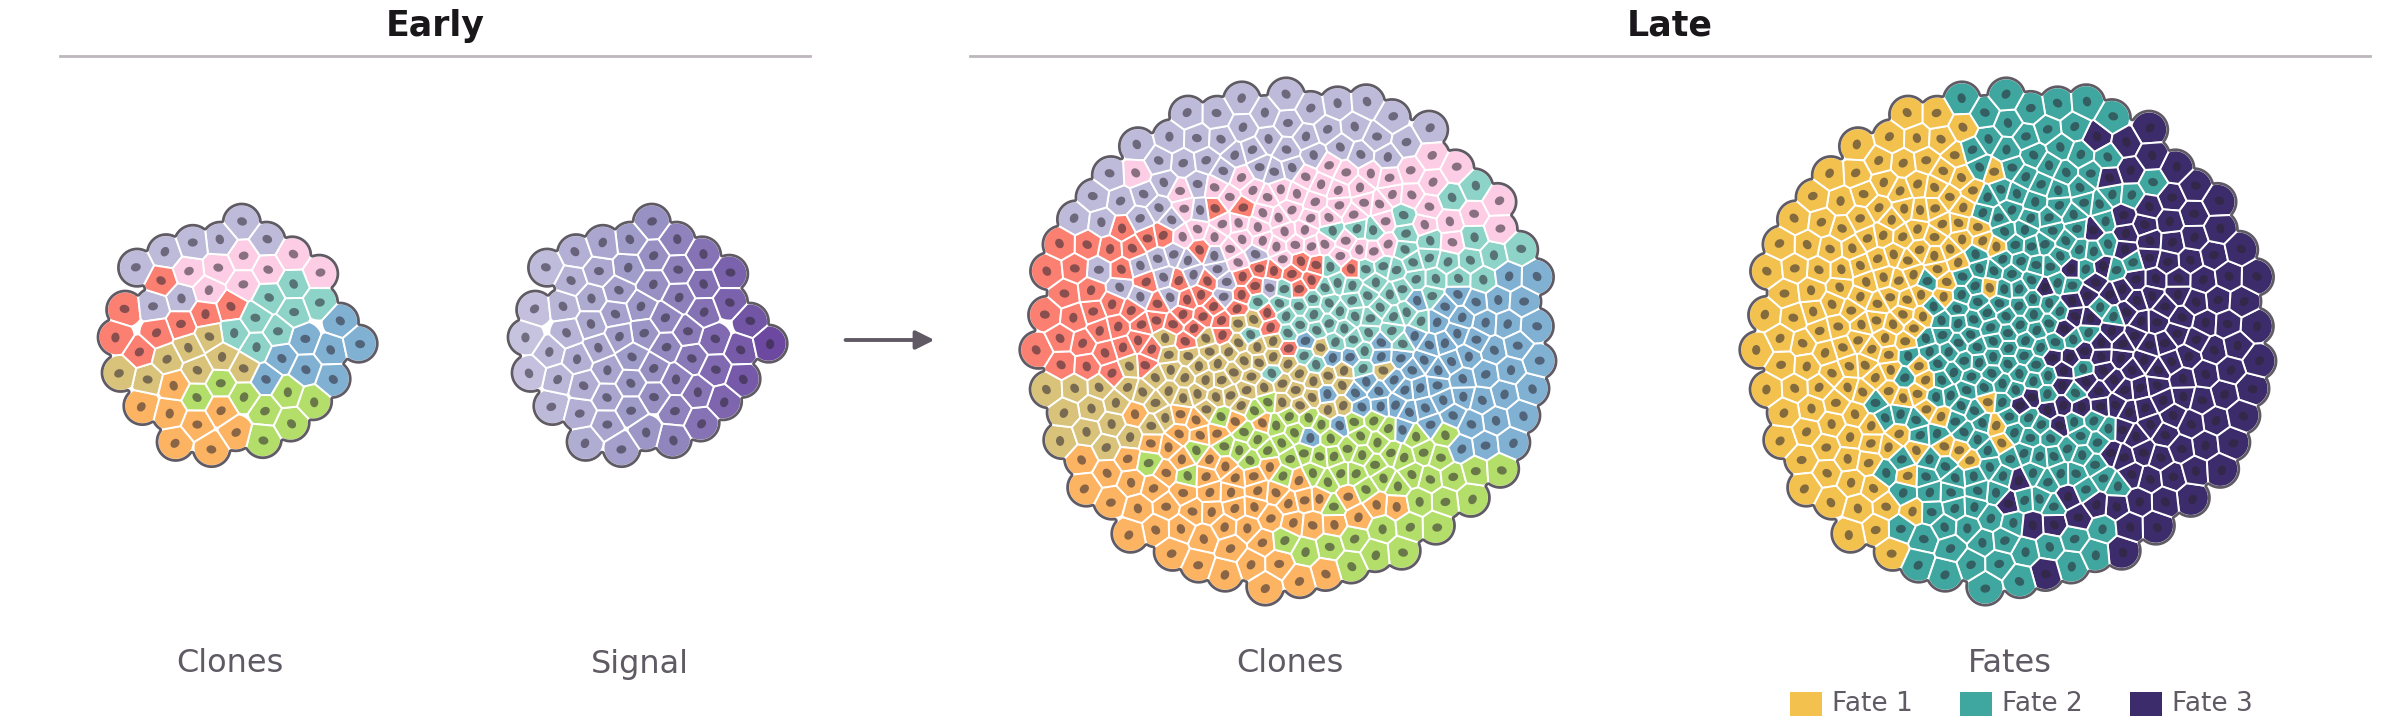
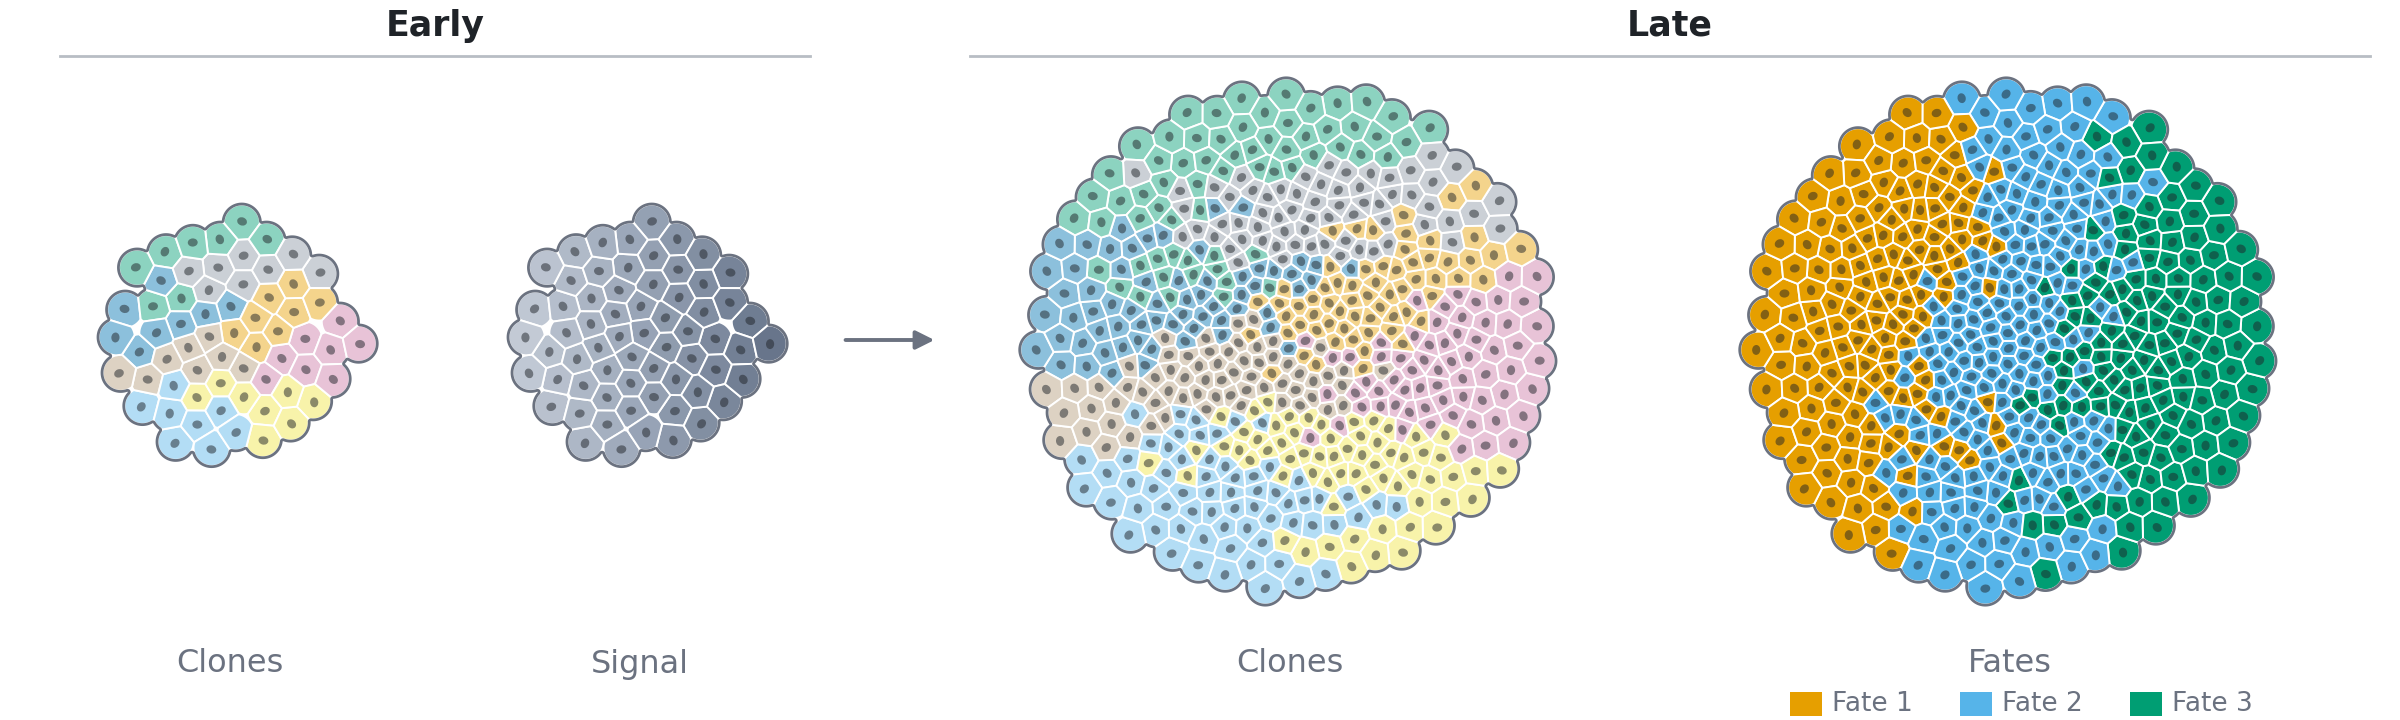
One colorblind-safe palette across the three figures; regulatory tracks on perspective planes

diff --git a/bin/make_research_art.py b/bin/make_research_art.py
@@ -24,11 +24,27 @@ from matplotlib.patches import FancyArrowPatch, Polygon, Rectangle
 OUT = os.path.join(os.path.dirname(os.path.abspath(__file__)), "..", "assets", "img", "research")
 os.makedirs(OUT, exist_ok=True)
 
-# the research statement's palette
-INK, MUTED, GREY, HAIR = "#1A171B", "#5F5A63", "#BDB7BD", "#E2DDE2"
-TEAL, ORANGE, PURPLE, BROWN, MAGENTA, BLUE = "#1B9E77", "#D95F02", "#7570B3", "#A6761D", "#E7298A", "#1F9BD6"
-ALLELES = [TEAL, ORANGE, PURPLE, BROWN, MAGENTA, BLUE]
-DROPOUT = "#C9C5CA"
+# ---- one palette for all three figures ----
+# Categorical colors are the Okabe-Ito set, which stays distinguishable under common color vision
+# deficiencies. The same meaning keeps the same color across figures: cell identities (fates in the
+# fate figure, states in the transfer figure) share IDENT, and recorder edits reuse its hues. Lightness
+# separates layers of meaning: clones are pale tints, identities are saturated. Magnitude (the signal)
+# is a single-hue slate ramp, never a category color. One accent, vermillion, marks what matters:
+# the newest edit, and human. Everything else is neutral.
+INK, MUTED, GREY, HAIR = "#1F2328", "#6B7280", "#B8BDC4", "#E5E7EB"
+OI_ORANGE, OI_SKY, OI_GREEN, OI_BLUE, OI_PURPLE = "#E69F00", "#56B4E9", "#009E73", "#0072B2", "#CC79A7"
+OI_YELLOW, OI_VERMILLION = "#F0E442", "#D55E00"
+IDENT = [OI_ORANGE, OI_SKY, OI_GREEN, OI_BLUE, OI_PURPLE]
+ACCENT = OI_VERMILLION
+SLATE = "#3B4A63"
+ALLELES = IDENT
+DROPOUT = "#CDD1D6"
+
+
+def tint(c, f=0.55):
+    """c mixed toward white by f, for a lighter layer of the same hue."""
+    a = np.array(matplotlib.colors.to_rgb(c))
+    return tuple(a + (1 - a) * f)
 plt.rcParams["font.family"] = "DejaVu Sans"
 W, H = 12.0, 3.6
 DPI = 200
@@ -66,8 +82,8 @@ def text(ax, x, y, s, **kw):
 fig, ax = canvas()
 rng = np.random.default_rng(9)
 NSITE = 5
-UNEDITED = "#2B2530"
-NEW = "#FFB000"
+UNEDITED = "#2B2F36"
+NEW = ACCENT
 TIPY = 0.6
 # the tree: name -> (x, y of the cell, children); y is the time of division, tips sit at sampling time
 TREE = {
@@ -163,7 +179,7 @@ for k, (lab, draw) in enumerate((("Unedited", "u"), ("Edited", "e"), ("Newest\ne
         for j, c in enumerate(ALLELES[:3]):
             ax.add_patch(Rectangle((KX + j * 0.085 - 0.07, y - 0.1), 0.065, 0.2, fc=c, ec="none"))
     elif draw == "n":
-        ax.add_patch(Rectangle((KX, y - 0.1), 0.07, 0.2, fc=ORANGE, ec="none"))
+        ax.add_patch(Rectangle((KX, y - 0.1), 0.07, 0.2, fc=IDENT[0], ec="none"))
         ax.add_patch(Rectangle((KX - 0.03, y - 0.13), 0.13, 0.26, fc="none", ec=NEW, lw=1.8))
     else:
         ax.add_patch(Rectangle((KX, y - 0.1), 0.07, 0.2, fc=DROPOUT, ec="none"))
@@ -222,9 +238,9 @@ def signal_of(p):
 
 fate = np.digitize(signal_of(pos) + bias + rs.normal(0, 0.05, len(pos)), [0.38, 0.64])
 
-CLONE_COLS = ["#8DD3C7", "#FDB462", "#BEBADA", "#FB8072", "#80B1D3", "#B3DE69", "#FCCDE5", "#D9C27A"]
-FATE_COLS = ["#F2C14E", "#3FA7A0", "#3D2C6B"]
-SIG_CMAP = matplotlib.colors.LinearSegmentedColormap.from_list("sig", ["#F7F4FB", "#9E9AC8", "#3F007D"])
+CLONE_COLS = [tint(c) for c in (OI_ORANGE, OI_SKY, OI_GREEN, OI_BLUE, OI_PURPLE, OI_YELLOW, "#8C96A3", "#B49A7A")]
+FATE_COLS = IDENT[:3]                              # the same colors as States 1 to 3 in the transfer figure
+SIG_CMAP = matplotlib.colors.LinearSegmentedColormap.from_list("sig", ["#F4F6F9", "#9AA6B8", SLATE])
 
 
 def tissue(ax, cx, cy, scale, p, colors):
@@ -245,7 +261,7 @@ def tissue(ax, cx, cy, scale, p, colors):
         ax.add_patch(Poly(np.array(cell.exterior.coords), closed=True, fc=colors[i], ec="white", lw=0.7, zorder=3))
         c = cell.centroid
         ax.add_patch(Ellipse((c.x, c.y), 0.34 * scale, 0.28 * scale, angle=rs.uniform(0, 180),
-                             fc="#2B2530", ec="none", alpha=0.55, zorder=4))
+                             fc=INK, ec="none", alpha=0.5, zorder=4))
     body = unary_union([c.buffer(0.08 * scale) for c in shapes]).buffer(-0.06 * scale)   # close the gaps between cells
     for g in getattr(body, "geoms", [body]):
         ax.add_patch(Poly(np.array(g.exterior.coords), closed=True, fc="none", ec=MUTED, lw=1.0, zorder=5))
@@ -278,12 +294,11 @@ save(fig, "fate.png")
 
 # =============================== 3. transfer ===============================
 # Left: a phylogeny with a silhouette per species; for each, a functional genomics signal track over
-# the same region, orthologous genes marked, and the region's synteny drawn as conserved blocks along
-# the genome (their order and orientation differ between species); each model organism's proposal
-# points onto the human track.
-# Right: the cell states of the same species as a stack of embedding planes, as in the research
-# statement: a branching trajectory in each, corresponding states linked, and human sampled only to
-# an earlier stage, so its later states are outlines.
+# the same region on its own plane, stacked in perspective, with the orthologous genes marked; each
+# model organism proposes a different human element.
+# Right: the cell states of the same species as a stack of embedding planes, one cluster per state.
+# Human is the reference and has every state; each model organism lacks some of them (outlined).
+# Model organisms are drawn in neutrals and human in the accent, so the figure reads human-centered.
 SIL = os.path.join(os.path.dirname(os.path.abspath(__file__)), "silhouettes")
 W3, H3 = 12.0, 4.6
 fig = plt.figure(figsize=(W3, H3), dpi=DPI)
@@ -293,8 +308,12 @@ ax.set_ylim(0, H3)
 ax.set_aspect("equal")
 ax.axis("off")
 rs = np.random.default_rng(12)
-SPECIES = [("Zebrafish", "zebrafish", BLUE), ("Mouse", "mouse", ORANGE), ("Macaque", "macaque", PURPLE), ("Human", "human", TEAL)]
-ROW = [3.45, 2.52, 1.59, 0.66]                   # track baselines, human at the bottom
+SPECIES = [("Zebrafish", "zebrafish"), ("Mouse", "mouse"), ("Macaque", "macaque"), ("Human", "human")]
+ROW = [3.45, 2.52, 1.59, 0.66]                   # plane bottoms, human at the bottom
+
+
+def scol(key):
+    return ACCENT if key == "human" else SLATE
 
 
 def hline(x0, x1, y):
@@ -331,87 +350,97 @@ def silhouette(name, x, y, hmax, wmax, color):
     ax.imshow(rgba, extent=(x - w * sc / 2, x + w * sc / 2, y - h * sc / 2, y + h * sc / 2), zorder=4)
 
 
-for (lab, key, col), y in zip(SPECIES, ROW):
-    silhouette(key, 1.35, y + 0.4, 0.55, 0.7, col)
-    text(ax, 1.35, y + 0.02, lab, fontsize=10.5, color=col, fontweight="bold")
-
-TX0, TX1 = 1.95, 6.05
-xs = np.linspace(TX0, TX1, 700)
-# element positions per species; the region is longer in mouse and shorter in zebrafish, and the
-# middle block is inverted in zebrafish, so the elements do not line up column by column
-ELEM = {"zebrafish": [2.95, 4.45, 5.0], "mouse": [2.85, 3.95, 5.1], "macaque": [3.0, 4.05, 5.05], "human": [3.02, 4.08, 5.07]}
-GA = {"zebrafish": 2.05, "mouse": 2.02, "macaque": 2.08, "human": 2.08}
-GB = {"zebrafish": 5.45, "mouse": 5.6, "macaque": 5.55, "human": 5.57}
-def gene(x, y, color, label=None, strand=1):
-    """A gene arrow; strand -1 points left, as a gene on the reverse strand."""
-    pts = [(0, -0.07), (0.26, -0.07), (0.34, 0), (0.26, 0.07), (0, 0.07)]
-    if strand < 0:
-        pts = [(0.34 - px, py) for px, py in pts]
-    ax.add_patch(Polygon([(x + px, y + py) for px, py in pts], closed=True, fc=color, ec="none", zorder=5))
-    if label:
-        text(ax, x + 0.17, y + 0.2, label, fontsize=9.5, color=INK, style="italic")
+for (lab, key), y in zip(SPECIES, ROW):
+    silhouette(key, 1.35, y + 0.4, 0.55, 0.7, scol(key))
+    text(ax, 1.35, y + 0.02, lab, fontsize=10.5, color=scol(key), fontweight="bold")
 
 
-for (lab, key, col), y in zip(SPECIES, ROW):
-    sig = 0.03 * rs.random(xs.size)
-    for k, e in enumerate(ELEM[key]):
-        h = 0.5
-        sig += h * np.exp(-((xs - e) ** 2) / (2 * 0.045 ** 2))
-    for e in rs.uniform(TX0 + 0.5, TX1 - 0.8, 3):                       # species-specific peaks
-        sig += 0.15 * np.exp(-((xs - e) ** 2) / (2 * 0.03 ** 2))
-    ax.fill_between(xs, y, y + sig, color=col, alpha=0.9, lw=0, zorder=3)
-    ax.plot([TX0, TX1], [y, y], color=GREY, lw=1, zorder=2)
-    top = key == "zebrafish"
-    gene(GA[key], y, INK, "Gene A" if top else None)
-    gene(GB[key], y, INK, "Gene B" if top else None, strand=-1)
-# orthologous genes joined across species
-for (_, a, _), (_, b, _), ya, yb in zip(SPECIES, SPECIES[1:], ROW, ROW[1:]):
+def plane(k, a, b, x0, wa, wb, hb):
+    """A point on plane k: a runs along the plane, b runs into it (drawn up and to the right)."""
+    return x0 + 0.3 * k + wa * a + wb * b, ROW[k] - 0.1 + hb * b
+
+
+def Lk(k, a, b):
+    return plane(k, a, b, 1.8, 3.75, 0.55, 0.42)
+
+
+def Rk(k, a, b):
+    return plane(k, a, b, 6.6, 3.45, 0.7, 0.62)
+
+
+def draw_plane(P, k, key, z):
+    ax.add_patch(Polygon([P(k, 0, 0), P(k, 1, 0), P(k, 1, 1), P(k, 0, 1)], closed=True, fc="#F7F7F8",
+                         ec=scol(key), lw=1.3 if key == "human" else 0.9, alpha=0.96, zorder=z))
+
+
+# ---------------- left: a signal track on each plane ----------------
+ELEM = {"zebrafish": [0.24, 0.6, 0.73], "mouse": [0.22, 0.48, 0.76], "macaque": [0.26, 0.5, 0.75], "human": [0.26, 0.51, 0.755]}
+GA = {"zebrafish": 0.03, "mouse": 0.02, "macaque": 0.04, "human": 0.04}      # gene A, left flank
+GB = {"zebrafish": 0.86, "mouse": 0.89, "macaque": 0.88, "human": 0.885}     # gene B, reverse strand
+TRACK_B = 0.3                                    # the track runs along the plane at this depth
+aa = np.linspace(0.0, 1.0, 600)
+for k, (lab, key) in enumerate(SPECIES):
+    draw_plane(Lk, k, key, 2 + k * 0.01)
+    sig = 0.03 * rs.random(aa.size)
+    for e in ELEM[key]:
+        sig += 0.5 * np.exp(-((aa - e) ** 2) / (2 * 0.011 ** 2))
+    for e in rs.uniform(0.12, 0.8, 3):                                   # species-specific peaks
+        sig += 0.15 * np.exp(-((aa - e) ** 2) / (2 * 0.008 ** 2))
+    base = np.array([Lk(k, a, TRACK_B) for a in aa])
+    ax.fill_between(base[:, 0], base[:, 1], base[:, 1] + 0.95 * sig, color=scol(key), alpha=0.85, lw=0, zorder=5)
+    ax.plot(base[:, 0], base[:, 1], color=GREY, lw=0.9, zorder=4)
+    for g, strand, name in ((GA, 1, "Gene A"), (GB, -1, "Gene B")):
+        gx, gy = Lk(k, g[key], TRACK_B)
+        pts = [(0, -0.065), (0.24, -0.065), (0.32, 0), (0.24, 0.065), (0, 0.065)]
+        if strand < 0:
+            pts = [(0.32 - px, py) for px, py in pts]
+        ax.add_patch(Polygon([(gx + px, gy + py) for px, py in pts], closed=True, fc=INK, ec="none", zorder=6))
+        if k == 0:
+            text(ax, gx + 0.16, gy + 0.2, name, fontsize=9.5, color=INK, style="italic")
+# orthologous genes joined plane to plane
+for k in range(3):
     for g in (GA, GB):
-        ax.plot([g[a] + 0.17, g[b] + 0.17], [ya - 0.1, yb + 0.1], color=MUTED, lw=0.9, ls=(0, (2, 2)), zorder=1)
+        p, q = Lk(k, g[SPECIES[k][1]], TRACK_B), Lk(k + 1, g[SPECIES[k + 1][1]], TRACK_B)
+        ax.plot([p[0] + 0.16, q[0] + 0.16], [p[1] - 0.07, q[1] + 0.07], color=MUTED, lw=0.9, ls=(0, (2, 2)), zorder=1)
 # each model organism proposes a different human element, from the element it has evidence for
-for (lab, key, col), y, k in zip(SPECIES[:3], ROW[:3], (2, 1, 0)):
-    ax.add_patch(FancyArrowPatch((ELEM[key][k] + 0.1, y + 0.3), (ELEM["human"][k] + 0.08, ROW[3] + 0.5),
+for k, j in zip(range(3), (2, 1, 0)):
+    key = SPECIES[k][1]
+    p = Lk(k, ELEM[key][j], TRACK_B)
+    q = Lk(3, ELEM["human"][j], TRACK_B)
+    ax.add_patch(FancyArrowPatch((p[0] + 0.05, p[1] + 0.3), (q[0] + 0.03, q[1] + 0.5),
                                  connectionstyle="arc3,rad=-0.3", arrowstyle="-|>", mutation_scale=11,
-                                 color=col, lw=1.4, zorder=6))
-text(ax, (TX0 + TX1) / 2, 4.38, "Regulatory elements", fontsize=12, color=INK)
+                                 color=INK, lw=1.3, zorder=7))
+    hx, hy = q
+    ax.add_patch(matplotlib.patches.Ellipse((hx, hy + 0.22), 0.2, 0.56, fc="none", ec=ACCENT, lw=1.4, zorder=7))
+text(ax, 3.9, 4.42, "Regulatory elements", fontsize=12, color=INK)
 
-# ---------------- right: a stack of embedding planes, one per species ----------------
-# each cell state is a cluster, placed alike in every species with a small species-specific shift.
-# Human is the reference and has every state; each model organism lacks some of them (outlined)
-STATES = [("State 1", "#F28E2B", 0.13, 0.5), ("State 2", "#E15759", 0.38, 0.28), ("State 3", "#76B7B2", 0.38, 0.72),
-          ("State 4", "#59A14F", 0.72, 0.25), ("State 5", "#B07AA1", 0.78, 0.72)]
-
-
-def Pk(k, a, b):
-    ox, oy = 6.55 + 0.34 * k, ROW[k] - 0.08
-    return ox + 3.5 * a + 0.7 * b, oy + 0.62 * b
-
-
+# ---------------- right: a stack of embedding planes, one cluster per cell state ----------------
+STATES = [("State %d" % (j + 1), IDENT[j], ca, cb) for j, (ca, cb) in
+          enumerate(((0.13, 0.5), (0.38, 0.28), (0.38, 0.72), (0.72, 0.25), (0.78, 0.72)))]
 MISSING = {"zebrafish": {2, 4}, "mouse": {4}, "macaque": {3}, "human": set()}
 CENT = []
-for k, (lab, key, col) in enumerate(SPECIES):
-    ax.add_patch(Polygon([Pk(k, 0, 0), Pk(k, 1, 0), Pk(k, 1, 1), Pk(k, 0, 1)], closed=True,
-                         fc="#FAFAFB", ec=col, lw=1.1, alpha=0.95, zorder=9 - k))
+for k, (lab, key) in enumerate(SPECIES):
+    draw_plane(Rk, k, key, 9 - k)
     cents = {}
     for j, (sname, sc, ca, cb) in enumerate(STATES):
         ca2, cb2 = ca + rs.normal(0, 0.025), cb + rs.normal(0, 0.04)
-        cents[j] = Pk(k, ca2, cb2)
+        cents[j] = Rk(k, ca2, cb2)
         if j in MISSING[key]:                                           # this species has no such state
             ax.add_patch(Ellipse(cents[j], 0.5, 0.2, fc="none", ec=sc, lw=1.2, ls=(0, (1.5, 1.5)), zorder=11))
             continue
         n = 28
-        aa = np.clip(ca2 + rs.normal(0, 0.035, n), 0.03, 0.97)
-        bb = np.clip(cb2 + rs.normal(0, 0.09, n), 0.06, 0.94)
-        pts = np.array([Pk(k, u, v) for u, v in zip(aa, bb)])
+        ua = np.clip(ca2 + rs.normal(0, 0.035, n), 0.03, 0.97)
+        ub = np.clip(cb2 + rs.normal(0, 0.09, n), 0.06, 0.94)
+        pts = np.array([Rk(k, u, v) for u, v in zip(ua, ub)])
         ax.scatter(pts[:, 0], pts[:, 1], s=8, color=sc, edgecolors="none", zorder=10 - k)
     CENT.append(cents)
 for ca, cb in zip(CENT, CENT[1:]):
     for j in range(len(STATES)):
-        ax.plot([ca[j][0], cb[j][0]], [ca[j][1], cb[j][1]], color="#9FB6D6", lw=0.9, ls=(0, (3, 2)), zorder=1)
-text(ax, 8.9, 4.38, "Cell states, aligned to human", fontsize=12, color=INK)
+        ax.plot([ca[j][0], cb[j][0]], [ca[j][1], cb[j][1]], color=GREY, lw=0.9, ls=(0, (3, 2)), zorder=1)
+text(ax, 8.95, 4.42, "Cell states, aligned to human", fontsize=12, color=INK)
 for j, (sname, sc, _, _) in enumerate(STATES):
-    ax.scatter([6.75 + j * 1.0], [0.2], s=26, color=sc, edgecolors="none")
-    text(ax, 6.85 + j * 1.0, 0.2, sname, fontsize=9.5, ha="left")
+    ax.scatter([6.75 + j * 1.0], [0.18], s=26, color=sc, edgecolors="none")
+    text(ax, 6.85 + j * 1.0, 0.18, sname, fontsize=9.5, ha="left")
 fig.savefig(os.path.join(OUT, "transfer.png"), dpi=DPI, facecolor="white")
 plt.close(fig)
 print("wrote", sorted(os.listdir(OUT)))
